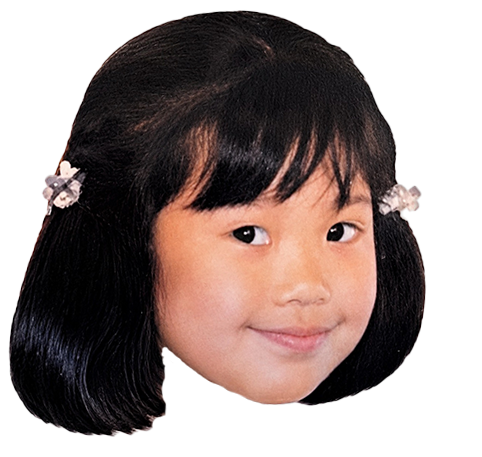
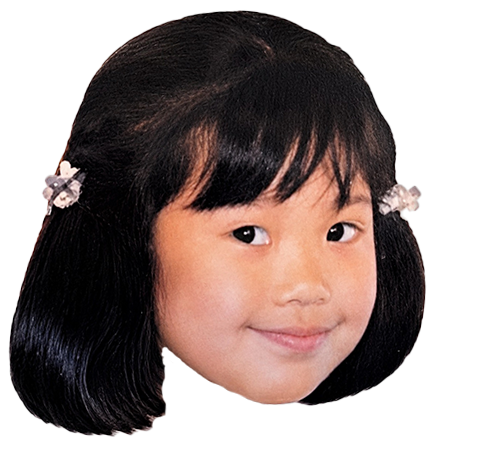
二つ名を名前に添えて表示する
Charactersシートの「二つ名」列（幼少期・新郎など）を読み取り、
名前と並べて表示するようにした。

- 力士カード: 名前の右に、名前より一回り小さく添える
- 団体戦の選択画面: 縦書きの二段目として名前の左に立て、
  下端に揃えて小さく表示する

あわせて衣装の対応表に「まわし」を明示（従来も通常の体が
選ばれていたが、有効な値として分かるようにした）。

diff --git a/js/data_local.js b/js/data_local.js
@@ -1,7 +1,7 @@
 /**
  * data_local.js  ※自動生成ファイル - 直接編集しないこと
  *
- * 生成: 2026-08-31 08:39:57
+ * 生成: 2026-08-31 08:50:08
  * 元:   スプレッドシート 2PACX-1vT4MxPwJQWpSrarh8...
  *
  * 内容を更新するには、スプシを編集してから次を実行:
@@ -9,7 +9,7 @@
  */
 const LOCAL_CSV = {
   "CONFIG": "No.,カテゴリ,関連,ID (Key),概要,計算式 / ロジック,設定値,解説（値が大きくなると）\r\n1,SYSTEM,0-共通,SYSTEM_STAGE_WIDTH,ステージ全幅,ピクセル数 (px),1200,ゲーム画面（土俵を含む全体）の横幅。\r\n2,SYSTEM,0-共通,SYSTEM_CENTER_X,ステージ中心X座標,STAGE_WIDTH / 2 (px),600,画面の中央座標。配置の基準点。\r\n3,SYSTEM,0-共通,SYSTEM_START_OFFSET,初期配置オフセット,CENTER_X ± OFFSET,200,中心から左右にどれだけ離れて開始するか。\r\n4,SYSTEM,0-共通,GAME_RULES_RING_EDGE_RIGHT,土俵右端座標,右端X座標土俵(px),1090,土俵が右に広がる。\r\n5,SYSTEM,0-共通,GAME_RULES_RING_EDGE_LEFT,土俵左端座標,左端のX座標(px),110,土俵が左に広がる。\r\n6,SYSTEM,0-共通,GAME_RULES_EDGE_ZONE_WIDTH,土俵際の判定エリア,端から{設定値}Pxが土俵際,120,土俵際（逆転バフ発動エリア）が広くなる。\r\n7,SYSTEM,0-共通,GAME_RULES_HIT_DIST,接触判定距離,2人の距離(d)が{設定値}Px以下なら「接触」判定。この距離内でアクションすると**「組み（Grapple）」**に移行,100,遠くからでも接触判定が出る。吸い込みが強くなる。\r\n8,SYSTEM,0-共通,GAME_RULES_THROW_RANGE,投げ技射程,距離 < RANGE で掴み投げ発動(px),120,\"掴み投げが遠くから届くようになる。\n接触判定距離との差分→掴まれずに投げを発動できる距離\"\r\n9,SYSTEM,0-共通,DAMAGE_RINGOUT_PENALTY,即死ダメージ,固定ダメージ,999,土俵から足が出た瞬間に与えられるペナルティダメージ（999）。\r\n10,SYSTEM,0-共通,PHYSICS_SCALE_1,小兵サイズ倍率,基準値(130px) * SCALE,0.75,最も小さい体格。当たり判定も小さい。\r\n11,SYSTEM,0-共通,PHYSICS_SCALE_2,中兵サイズ倍率,基準値(130px) * SCALE,0.875,やや小さい体格。\r\n12,SYSTEM,0-共通,PHYSICS_SCALE_3,標準サイズ倍率,基準値(130px) * SCALE,1,基準となる体格。\r\n13,SYSTEM,0-共通,PHYSICS_SCALE_4,大型サイズ倍率,基準値(130px) * SCALE,1.225,やや大きい体格。\r\n14,SYSTEM,0-共通,PHYSICS_SCALE_5,巨漢サイズ倍率,基準値(130px) * SCALE,1.45,最も大きい体格。当たり判定も大きい。\r\n15,ACTION,0-共通,ACTION_SPEED_BASE,基本移動速度,BASE * ハヤサ補正(px/fl),8,全員の移動スピードが速くなる。\r\n16,ACTION,0-共通,ACTION_MOVE_BACK_RATE,後退速度倍率,SPEED * RATE,0.7,後ろに下がる速度が速くなる（逃げやすい）。\r\n17,ACTION,0-共通,ACTION_SPEED_CHARGING_MOD,チャージ中速度,SPEED * MOD(px/fl),0.7,チャージ中（Sキー）でも速く動ける（1.0で減速なし）。\r\n18,ACTION,0-共通,ACTION_CHARGE_BACK_RATE,チャージ後退倍率,SPEED * RATE,0.5,チャージしながら下がる速度が速くなる。\r\n19,ACTION,0-共通,ACTION_REBOUND_VELOCITY,弾かれ初速,衝突時 VELOCITY で吹っ飛ぶ(px/fl),15,かち合い（正面衝突）時\r\n20,ACTION,0-共通,ACTION_COOLDOWN_TIME,張り合い硬直,COOLDOWN 動けない (F),30,ぶつかった後の硬直時間が長くなる。\r\n21,ACTION,0-共通,ACTION_INASHI_DURATION_BASE,いなし受付時間基本値,BASE + ギジュツ補正 (F),1,いなし（パリィ）の受付時間が長くなる。\r\n22,ACTION,0-共通,ACTION_INASHI_TECH_MOD,いなし技術補正,ギジュツ差 * MOD (F),3,\"ギジュツが高いキャラのいなし時間がさらに伸びる。\n「ギジュツ（Tech）」ステータス1ポイントにつき、受付時間が何フレーム伸びるかです。\"\r\n23,ACTION,0-共通,ACTION_STUMBLE_DURATION,いなしの失敗隙,フレーム数 (F),30,いなし失敗時の硬直時間。（※対人戦のP1 vs P2では、今のところ使われていません。対人戦では STAMINA_MISS_PENALTY でスタミナが減る仕様になっています）\r\n24,ACTION,0-共通,ACTION_STUN_TIME_PUSH,スタン(押し),フレーム数 (F),30,ぶちかまし被弾時の気絶時間。\r\n25,ACTION,0-共通,ACTION_STUN_TIME_THROW,スタン(投げ),フレーム数 (F),50,投げ被弾時の気絶時間。\r\n26,ACTION,0-共通,ACTION_SWAP_DIST_NORMAL,いなし移動距離,入れ替え後 ± DIST(px),80,いなし成功時に相手とどのくらい距離を離すか。\r\n27,ACTION,0-共通,STATUS_SP_PUSH_BASE,ぶちかまし距離,BASE + (Power補正),50,ぶちかましで相手を最低でもこの距離は吹っ飛ばす。\r\n28,ACTION,0-共通,ACTION_SWAP_DIST_SUPER,投げ移動距離,投げ後 ± DIST(px),150,掴み投げ成功時に相手を背後にどの程度飛ばすか。\r\n29,ACTION,0-共通,CHARGE_BASE_GAIN,ゲージ増加量,GAIN * ギジュツ補正,1,下キー（チャージ）を押している間、この値が毎フレーム加算されます。\r\n30,ACTION,0-共通,CHARGE_THRESHOLDS_SUPER_PUSH,ぶちかまし閾値,ゲージ >= THRESHOLD で発動,50,ゲージがこの値以上の時に、接触して前進すると「ぶちかまし」が発動します。発動後、この値分だけゲージが消費されます。\r\n31,ACTION,0-共通,CHARGE_THRESHOLDS_SUPER_SWAP,投げ閾値,ゲージ >= THRESHOLD で発動,100,ゲージがこの値以上の時に、接触して前進すると「後ろ投げ」が発動します。発動後、この値分だけゲージが消費されます。\r\n32,ACTION,0-共通,CLASH_POWER_RATE,通常押し威力,チカラ×rate,0.5,通常の張り合いでスタミナが削れる量。\r\n33,ACTION,0-共通,PHYSICS_FRICTION,速度 *= FRICTION,張り合い時の減速,0.75,張り合い時に小さいほどツルツル滑る。\r\n34,ACTION,0-共通,DAMAGE_BASE_THROW,投げ威力,固定ダメージ,5,掴み投げ（必殺）でスタミナが削れるベース値。\r\n35,ACTION,1-チカラ,PHYSICS_PUSH_POWER_BASE,押す力の基本値,移動量 = (Power * 0.5) + PUSH_POWER_BASE,3.5,押し合いで相手を飛ばす物理的な移動量。\r\n36,ACTION,0-共通,DAMAGE_BASE_THRUST,ぶちかまし威力,固定ダメージ,5,ぶちかまし（必殺）でスタミナが削れる量。\r\n37,STAMINA,0-共通,STAMINA_INIT,スタミナ初期値,開始時のタイリョク基準値,100,試合が長引くようになる。\r\n38,ACTION,0-共通,STATUS_GRAPPLE_SPD_RATE,組み速度倍率,全員共通の速度 × STATUS_GRAPPLE_SPD_RATE,0.5,組み状態（寄り）での移動速度が速くなる。\r\n39,STAMINA,0-共通,STAMINA_MAX_DECAY,自然減少速度,毎フレーム MAX - DECAY,0.1,何もしなくてもHPが減る速度が上がる。\r\n40,STAMINA,0-共通,STAMINA_CHARGE_COST,チャージコスト,チャージ時 - COST,0.1,\"立ち合い時と寄り時両方のチャージ時の一時体力消費量\n※立ち合い時はチャージ時の半分\"\r\n41,STAMINA,0-共通,STAMINA_RECOVERY_DELAY,,,60,回復開始までの待機フレーム数（60=1秒）。300なら5秒待ちます。\r\n43,STAMINA,0-共通,STAMINA_SWAP_COST_NORMAL,いなし成功コスト,入れ替え時 - COST,0,いなし成功時の自傷ダメージ\r\n44,STAMINA,0-共通,STAMINA_MISS_PENALTY,空振りペナルティ,いなし失敗時 - PENALTY,10,いなし失敗時の自傷ダメージ\r\n45,STAMINA,0-共通,STAMINA_RECOVER_IDLE,棒立ち回復量,毎フレーム + RECOVER,0.3,何もしない時の回復が早くなる。\r\n46,STAMINA,0-共通,STAMINA_RECOVER_MOVE,移動中回復量,毎フレーム + RECOVER,0.1,移動しながらでもスタミナが回復しやすくなる。\r\n47,STAMINA,0-共通,STAMINA_PUSH_COST,寄るコスト,押し合い時 - COST,0.2,寄りで押すときにかかるコスト\r\n48,STAMINA,0-共通,STAMINA_MOVE_COST,寄られるコスト,移動時 - COST,0.25,寄りで押されてるときにかかるコスト\r\n49,STAMINA,0-共通,STAMINA_SUPER_PUSH_COST,SP押しコスト,ぶちかまし時 - COST,10,ぶちかまし使用時の体力消費が増える。\r\n50,STAMINA,0-共通,STAMINA_SUPER_SWAP_COST,SP投げコスト,掴み投げ時 - COST,15,掴み投げ使用時の体力消費が増える。\r\n51,STATUS,4-タイリョク,STATUS_HP_PER_STAMINA,体力換算レート,100 + (Stamina差 * RATE),10,タイリョクが高いキャラのHP最大値が増える。\r\n52,STAMINA,1-チカラ,STATUS_GRAPPLE_COST_RATE,組みスタミナ,COST * RATE,0.2,組み状態のタイリョク減少値\r\n53,STATUS,3-ハヤサ,STATUS_SPD_MOVE_RATE,俊敏移動補正,SPEED * (1 + Spd差*RATE),0.15,ハヤサが高いキャラの移動速度が速くなる。\r\n54,STATUS,3-ハヤサ,STATUS_SPD_BRAKE_RATE,俊敏減速補正,DECAY - (Spd差 * RATE),0.05,ハヤサが高いキャラがスタンからすぐ動ける。\r\n55,STATUS,2-ギジュツ,STATUS_TECH_CHARGE_RATE,チャージ補正,GAIN * (1 + Tech差*RATE),0.18,ギジュツが高いキャラのチャージ速度が速くなる。\r\n56,STATUS,6-ギャクテン,STATUS_REV_BUFF_RATE,逆転バフ率,Reversal差 * RATE,1,ギャクテンが高いキャラが土俵際で強くなる度合い。\r\n57,STATUS,5-キモチ,STATUS_SPIRIT_BUFF_RATE,根性バフ率,(1-HP率) * Spirit差 * RATE,1,キモチが高いキャラがピンチ時に強くなる度合い。\r\n58,UI,0-共通,UI_DMG_DURATION,ダメージ表示時間,ミリ秒 (ms),150,ダメージ数値が画面に表示され続ける時間。\r\n59,UI,0-共通,UI_GYOJI_INTERVAL_MAX,行司間隔(最大),ミリ秒 (ms),2500,「のこった」の最大間隔。\r\n60,UI,0-共通,UI_GYOJI_INTERVAL_MIN,行司間隔(最小),ミリ秒 (ms),800,「のこった」の最小間隔。\r\n61,STATUS,1-チカラ,STATUS_SP_PUSH_RATE,ぶちかまし係数,吹き飛ばし距離 = 基礎値150 + (パワー × SP_PUSH_RATE),20,\"パワー1につき、吹き飛ばす距離が何ピクセル伸びるか。\n例: パワー10 × レート20 = 基礎値に加えて200ドット余計に飛ばす\"\r\n62,STATUS,1-チカラ,STATUS_SP_SELF_BACK_RATE,ぶちかまし反動,吹っ飛ばし距離 * RATE,0.2,\"ぶちかまし後自分にかかる反動\n例: 相手を300飛ばした × レート0.2 = 自分も反動で60下がる。\"\r\n63,STATUS,1-チカラ,STATUS_PUSH_VS_CHARGE,チャージ相手の「押しの効きにくさ（抵抗値）」,移動距離 = 本来の移動距離 ÷ STATUS_PUSH_VS_CHARGE,1.5,\"1.5 に設定した場合 → 移動距離が 1/1.5（約0.6倍）に減る。\n2.0 に設定した場合 → 移動距離が半減する（かなり重くなる）。\"\r\n64,STATUS,1-チカラ,STATUS_PWR_DMG_RATE,パワーダメ倍率,1.0 + (Power差 * RATE),0.2,チカラ（Power）が強い力士ほど、1押しあたりのダメージが重くなる\r\n65,STATUS,1-チカラ,STATUS_PUSH_DIST_CONVERT,押し距離変換,押し力 * CONVERT,0.5,物理的な「力」を、最終的に「画面上で何ドット動かすか」に変換する仕上げの倍率\r\n66,STATUS,1-チカラ,STATUS_PUSH_BASE_RATE,押し基礎値,Power * RATE,0.8,力士の能力値（チカラ）の差を、物理的な「力」に変換する\r\n67,AI,0-共通,AI_LV1_ACCURACY,Lv1 正確性,確率 0.0〜1.0,0.2,高いほど、こちらの行動に対して完璧なカウンター（例：押しには突き、突きにはいなし）を出してきます。\r\n68,AI,0-共通,AI_LV2_ACCURACY,Lv2 正確性,確率 0.0〜1.0,0.3,高いほど、こちらの行動に対して完璧なカウンター（例：押しには突き、突きにはいなし）を出してきます。\r\n69,AI,0-共通,AI_LV3_ACCURACY,Lv3 正確性,確率 0.0〜1.0,0.4,高いほど、こちらの行動に対して完璧なカウンター（例：押しには突き、突きにはいなし）を出してきます。\r\n70,AI,0-共通,AI_LV2_INASHIRATE,Lv2 いなし頻度,確率係数,0.1,高いほど、ひらりと体を入れ替える「いなし」を多用します。\r\n71,AI,0-共通,AI_LV4_ACCURACY,Lv4 正確性,確率 0.0〜1.0,0.6,高いほど、こちらの行動に対して完璧なカウンター（例：押しには突き、突きにはいなし）を出してきます。\r\n72,AI,0-共通,AI_LV3_INASHIRATE,Lv3 いなし頻度,確率係数,0.2,高いほど、ひらりと体を入れ替える「いなし」を多用します。\r\n73,AI,0-共通,AI_LV5_ACCURACY,Lv5 正確性,確率 0.0〜1.0,0.7,高いほど、こちらの行動に対して完璧なカウンター（例：押しには突き、突きにはいなし）を出してきます。\r\n74,AI,0-共通,AI_LV4_INASHIRATE,Lv4 いなし頻度,確率係数,0.4,高いほど、ひらりと体を入れ替える「いなし」を多用します。\r\n75,AI,0-共通,AI_LV6_ACCURACY,Lv6 正確性,確率 0.0〜1.0,0.85,高いほど、こちらの行動に対して完璧なカウンター（例：押しには突き、突きにはいなし）を出してきます。\r\n76,AI,0-共通,AI_LV5_INASHIRATE,Lv5 いなし頻度,確率係数,0.6,高いほど、ひらりと体を入れ替える「いなし」を多用します。\r\n77,AI,0-共通,AI_LV7_ACCURACY,Lv7 正確性,確率 0.0〜1.0,1,高いほど、こちらの行動に対して完璧なカウンター（例：押しには突き、突きにはいなし）を出してきます。\r\n78,AI,0-共通,AI_LV6_INASHIRATE,Lv6 いなし頻度,確率係数,0.9,高いほど、ひらりと体を入れ替える「いなし」を多用します。\r\n79,AI,0-共通,AI_LV1_INASHIRATE,Lv1 いなし頻度,確率係数,0.05,高いほど、ひらりと体を入れ替える「いなし」を多用します。\r\n80,AI,0-共通,AI_LV7_INASHIRATE,Lv7 いなし頻度,確率係数,1.5,高いほど、ひらりと体を入れ替える「いなし」を多用します。\r\n81,AI,0-共通,AI_LV1_MISTAKE,Lv1 ミス率,確率 0.0〜1.0,0.5,高いほど、棒立ちしたり、変な方向に動いたりします。\r\n82,AI,0-共通,AI_LV2_MISTAKE,Lv2 ミス率,確率 0.0〜1.0,0.4,高いほど、棒立ちしたり、変な方向に動いたりします。\r\n83,AI,0-共通,AI_LV3_MISTAKE,Lv3 ミス率,確率 0.0〜1.0,0.3,高いほど、棒立ちしたり、変な方向に動いたりします。\r\n84,AI,0-共通,AI_LV4_MISTAKE,Lv4 ミス率,確率 0.0〜1.0,0.2,高いほど、棒立ちしたり、変な方向に動いたりします。\r\n85,AI,0-共通,AI_LV5_MISTAKE,Lv5 ミス率,確率 0.0〜1.0,0.1,高いほど、棒立ちしたり、変な方向に動いたりします。\r\n86,AI,0-共通,AI_LV6_MISTAKE,Lv6 ミス率,確率 0.0〜1.0,0.05,高いほど、棒立ちしたり、変な方向に動いたりします。\r\n87,AI,0-共通,AI_LV7_MISTAKE,Lv7 ミス率,確率 0.0〜1.0,0,高いほど、棒立ちしたり、変な方向に動いたりします。\r\n88,AI,0-共通,AI_LV1_REACTION,Lv1 反応速度,フレーム数,50,「行動開始までのウェイト時間」 (フレーム数)\r\n89,AI,0-共通,AI_LV2_REACTION,Lv2 反応速度,フレーム数 (小さいほど速い),40,「行動開始までのウェイト時間」 (フレーム数)\r\n90,AI,0-共通,AI_LV3_REACTION,Lv3 反応速度,フレーム数 (小さいほど速い),30,「行動開始までのウェイト時間」 (フレーム数)\r\n91,AI,0-共通,AI_LV4_REACTION,Lv4 反応速度,フレーム数 (小さいほど速い),20,「行動開始までのウェイト時間」 (フレーム数)\r\n92,AI,0-共通,AI_LV5_REACTION,Lv5 反応速度,フレーム数,15,「行動開始までのウェイト時間」 (フレーム数)\r\n93,AI,0-共通,AI_LV6_REACTION,Lv6 反応速度,フレーム数,8,「行動開始までのウェイト時間」 (フレーム数)\r\n94,AI,0-共通,AI_LV7_REACTION,Lv7 反応速度,フレーム数,3,「行動開始までのウェイト時間」 (フレーム数)\r\n95,DEBUG,0-共通,DEBUG,デバッグモード,1=ON,0,\"0ロジック: 1 にすると、当たり判定のボックスや、現在のステータス数値などが画面上に可視化されます（※実装コードが ui.js や game.js の描画部分に含まれている場合のみ有効）。\n現状: コード内には明示的な実装が見当たりませんが、将来的に「当たり判定がおかしい？」となった時に使うための予約変数として置いておくのが良いです。\"\r\n96,ACTION,1-チカラ,ACTION_THROW_DIST_RATE,,,10,[新規] 投げ距離へのチカラ倍率\r\n97,ACTION,1-チカラ,DAMAGE_INASHI_RATE,,,2,[新規] いなし相手へのダメージ倍率（通常1。0.5にすれば半減）\r\n98,ACTION,1-チカラ,DAMAGE_THRUST_PWR_RATE,,,2,ダメージへのチカラ倍率（1ならそのまま加算）\r\n99,ACTION,1-チカラ,DAMAGE_THROW_PWR_RATE,,,3,ダメージへのチカラ倍率（2ならチカラ×2を加算）",
-  "CHARS": "ID,最終更新日,名前,画像ファイル,音声ファイル,体格,チカラ,ギジュツ,ハヤサ,タイリョク,キモチ,ギャクテン,どすこいパワー,タイプ,思考,Slot,カテゴリ,衣装,身長,身長スコア,体重,体重スコア,コスト\r\n0,2026/08/31,日野錦(幼少期),hino1.png,hino.mp3,1,3,2,7,5,5,5,40,スピード,変則,0,ドリーム,まわし,,1,,1,1\r\n1,2026/08/31,日野錦(高校生),hino2.png,hino.mp3,2,6,4,9,7,7,5,62,スピード,素直,1,ドリーム,まわし,,2,,2,3\r\n2,2026/08/31,日野錦(大学生),hino3.png,hino.mp3,3,7,4,7,5,8,7,61,パワー,力押し,2,ドリーム,まわし,,3,,3,3\r\n3,2026/08/31,日野錦(新郎),hino4.png,hino.mp3,3,6,4,6,4,10,10,58,バランス,変則,3,ドリーム,まわし,,3,,3,2\r\n4,2026/08/31,北居の星(幼少期),kitai1.png,kitai.mp3,1,1,1,4,3,5,3,22,スピード,素直,4,ドリーム,ドレス,,1,,1,0\r\n5,2026/08/31,北居の星(高校生),kitai2.png,kitai.mp3,2,10,4,8,10,10,6,80,パワー,力押し,5,ドリーム,ドレス,,2,,2,6\r\n6,2026/08/31,北居の星(留学),kitai3.png,kitai.mp3,3,8,2,8,8,10,5,65,パワー,素直,6,ドリーム,ドレス,,3,,3,4\r\n7,2026/08/31,北居の星(新婦),kitai4.png,kitai.mp3,4,8,3,7,8,10,5,66,パワー,力押し,7,ドリーム,ドレス,,4,,4,4\r\n8,2025/06/01,大の里,onosato.png,onosato.mp3,5,9,4,6,7,7,7,68,パワー,力押し,8,現役,まわし,192,5,184,5,4\r\n9,2025/06/01,安青錦,aonishiki.png,aonishiki.mp3,3,6,8,7,7,6,7,68,テクニック,素直,9,現役,まわし,182,3,141,2,4\r\n10,2025/06/01,高安,takayasu.png,takayasu.mp3,4,7,6,7,4,1,6,58,パワー,力押し,10,現役,まわし,188,4,173,3,2\r\n11,,熱海富士,atamifuji.png,,5,7,4,5,7,5,5,57,パワー,力押し,11,現役,まわし,187,3,197,5,2\r\n12,2025/06/01,字良,ura.png,ura.mp3,2,3,9,5,3,6,9,54,テクニック,技狙い,12,現役,まわし,176,2,138,2,2\r\n13,,炎鵬,,,1,1,9,7,1,8,7,48,テクニック,,13,現役,まわし,167,0,107,1,1\r\n14,2025/06/01,白熊,shirokuma.png,shirokuma.mp3,3,3,3,3,3,3,3,30,バランス,素直,14,現役,まわし,185,3,155,3,0\r\n15,2025/06/01,白鵬,hakuho.png,hakuho.mp3,5,9,9,9,9,9,9,90,バランス,変則,15,レジェンド,まわし,192,5,155,3,6\r\n16,2025/06/01,稀勢の里,kisenosato.png,kisenosato.mp3,5,9,8,6,7,3,10,76,パワー,変則,16,レジェンド,まわし,188,4,177,4,5\r\n17,,貴乃花,,,,,,,,,,,,変則,17,レジェンド,まわし,,0,,1,0\r\n18,2026/01/01,義野口（友人）,noguchi.png,noguchi.mp3,4,10,6,1,1,1,2,50,パワー,力押し,18,ドリーム,まわし,,5,184,5,2\r\n19,2026/01/01,大高の里（友人）,otaka.png,otaka.mp3,3,2,8,4,8,8,1,50,テクニック,技狙い,19,ドリーム,まわし,,3,140,2,2",
+  "CHARS": "ID,最終更新日,名前,二つ名,画像ファイル,音声ファイル,体格,チカラ,ギジュツ,ハヤサ,タイリョク,キモチ,ギャクテン,どすこいパワー,タイプ,思考,Slot,カテゴリ,衣装,身長,身長スコア,体重,体重スコア,コスト\r\n0,2026/08/31,日野錦,幼少期,hino1.png,hino.mp3,1,3,2,7,5,5,5,40,スピード,変則,0,ドリーム,まわし,,1,,1,1\r\n1,2026/08/31,日野錦,高校生,hino2.png,hino.mp3,2,6,4,9,7,7,5,62,スピード,素直,1,ドリーム,まわし,,2,,2,3\r\n2,2026/08/31,日野錦,大学生,hino3.png,hino.mp3,3,7,4,7,5,8,7,61,パワー,力押し,2,ドリーム,まわし,,3,,3,3\r\n3,2026/08/31,日野錦,新郎,hino4.png,hino.mp3,3,6,4,6,4,10,10,58,バランス,変則,3,ドリーム,まわし,,3,,3,2\r\n4,2026/08/31,北居の星,幼少期,kitai1.png,kitai.mp3,1,1,1,4,3,5,3,22,スピード,素直,4,ドリーム,ドレス,,1,,1,0\r\n5,2026/08/31,北居の星,高校生,kitai2.png,kitai.mp3,2,10,4,8,10,10,6,80,パワー,力押し,5,ドリーム,ドレス,,2,,2,6\r\n6,2026/08/31,北居の星,留学,kitai3.png,kitai.mp3,3,8,2,8,8,10,5,65,パワー,素直,6,ドリーム,ドレス,,3,,3,4\r\n7,2026/08/31,北居の星,新郎,kitai4.png,kitai.mp3,4,8,3,7,8,10,5,66,パワー,力押し,7,ドリーム,ドレス,,4,,4,4\r\n8,2025/06/01,大の里,,onosato.png,onosato.mp3,5,9,4,6,7,7,7,68,パワー,力押し,8,現役,まわし,192,5,184,5,4\r\n9,2025/06/01,安青錦,,aonishiki.png,aonishiki.mp3,3,6,8,7,7,6,7,68,テクニック,素直,9,現役,まわし,182,3,141,2,4\r\n10,2025/06/01,高安,,takayasu.png,takayasu.mp3,4,7,6,7,4,1,6,58,パワー,力押し,10,現役,まわし,188,4,173,3,2\r\n11,,熱海富士,,atamifuji.png,,5,7,4,5,7,5,5,57,パワー,力押し,11,現役,まわし,187,3,197,5,2\r\n12,2025/06/01,字良,,ura.png,ura.mp3,2,3,9,5,3,6,9,54,テクニック,技狙い,12,現役,まわし,176,2,138,2,2\r\n13,,炎鵬,,,,1,1,9,7,1,8,7,48,テクニック,,13,現役,まわし,167,0,107,1,1\r\n14,2025/06/01,白熊,,shirokuma.png,shirokuma.mp3,3,3,3,3,3,3,3,30,バランス,素直,14,現役,まわし,185,3,155,3,0\r\n15,2025/06/01,白鵬,,hakuho.png,hakuho.mp3,5,9,9,9,9,9,9,90,バランス,変則,15,レジェンド,まわし,192,5,155,3,6\r\n16,2025/06/01,稀勢の里,,kisenosato.png,kisenosato.mp3,5,9,8,6,7,3,10,76,パワー,変則,16,レジェンド,まわし,188,4,177,4,5\r\n17,,貴乃花,,,,,,,,,,,,,変則,17,レジェンド,まわし,,0,,1,0\r\n18,2026/01/01,義野口（友人）,,noguchi.png,noguchi.mp3,4,10,6,1,1,1,2,50,パワー,力押し,18,ドリーム,まわし,,5,184,5,2\r\n19,2026/01/01,大高の里（友人）,,otaka.png,otaka.mp3,3,2,8,4,8,8,1,50,テクニック,技狙い,19,ドリーム,まわし,,3,140,2,2",
   "BGM": "ID,ファイル名,曲名,アルバムID\r\n0,bgm01.mp3,5年前の未来,hitorizumou\r\n1,bgm02.mp3,I’m not just your star,hitorizumou\r\n2,bgm03.mp3,TU〜YU,sotsugyousiki\r\n3,bgm04.mp3,くっくっくうちゃん,hitorizumou\r\n4,bgm05.mp3,どうしようもないクリぼっちな僕,sotsugyousiki\r\n5,bgm06.mp3,ともへ,hitorizumou\r\n6,bgm07.mp3,君と僕と,sengen\r\n7,bgm08.mp3,宣言,sengen\r\n8,bgm09.mp3,前髪の行方,sengen\r\n9,bgm10.mp3,恥ずかしがって何もしない事が1番恥ずかしい,hitorizumou\r\n10,opening.mp3,にじうなな(Theme Song 1),Original\r\n11,charaselect.mp3,土俵に届け！キモチ(Theme Song 2),Original",
   "ALBUMS": "ID,アルバム名,ジャケット画像ファイル名,カテゴリ,カテゴリID\r\nhitorizumou,ひとりずもう,hitorizumou.jpg,ヒノれでぃお,1\r\nhinoiri,日の入,hinoiri.jpg,ヒノれでぃお,1\r\nhinode,日の出,hinode.jpg,ヒノれでぃお,1\r\nnokorifuku,残り福,nokorifuku.jpg,ヒノれでぃお,1\r\nsotsugyousiki,卒業式,sotsugyousiki.jpg,ヒノれでぃお,1\r\nsengen,宣言,sengen.jpg,ヒノれでぃお,1\r\nOriginal,Original,original.png,Original,2"
 };

diff --git a/css/team.css b/css/team.css
@@ -155,6 +155,22 @@
     text-shadow: 2px 2px 0px #000;
     z-index: 200;
     letter-spacing: 4px;
+
+    /* 縦書きでは段が右→左へ進むため、column指定で名前の左に二段目が立つ。
+       高さを持たせることで、二段目を下端へ寄せられるようにする。 */
+    display: flex;
+    flex-direction: column;
+    align-items: flex-start;   /* 名前は従来どおり上から始める */
+    height: calc(100% - 20px);
+    pointer-events: none;
+}
+
+/* 二段目の二つ名（幼少期・新郎など）。名前より小さく、下端に揃える */
+.vertical-name .vertical-nickname {
+    align-self: flex-end;
+    font-size: 0.6em;
+    letter-spacing: 2px;
+    margin-right: 2px;         /* 縦書きでは右方向が名前側 */
 }
 /* =========================================
    団体戦のタイトル周りのレイアウト調整

diff --git a/js/data.js b/js/data.js
@@ -145,6 +145,7 @@ async function loadExternalData() {
                         return {
                             id: parseInt(row['ID'] || i),
                             name: row['名前'] || "Unknown",
+                            nickname: (row['二つ名'] || row['通り名'] || "").trim(), // 名前に添える二つ名
                             img: row['画像ファイル'] || "",
                             desc: (row['タイプ'] || "バランス").replace("ギジュツ", "テクニック") + "タイプ",
                             playType: (row['タイプ'] || "バランス").replace("ギジュツ", "テクニック"),

diff --git a/js/ui.js b/js/ui.js
@@ -1100,7 +1100,7 @@ class UIManager {
             html += `
             <div class="preview-info">
                 ${radarHtml} 
-                <div class="preview-name">${d.name}</div>
+                <div class="preview-name">${d.name}${d.nickname ? `<span class="preview-nickname">${d.nickname}</span>` : ''}</div>
                 <div class="preview-badge-type">${typeName}</div>
                 <div class="preview-badge-ai">${aiName}</div>
                 <div class="preview-stat-grid">

diff --git a/css/ui.css b/css/ui.css
@@ -395,6 +395,14 @@
     margin: 0; /* マージンでの位置調整は廃止 */
 }
 
+/* 名前の右に添える二つ名（幼少期・新郎など）。名前より一回り小さく出す */
+.preview-nickname {
+    font-size: 0.62em;
+    margin-left: 0.4em;
+    vertical-align: 0.12em;   /* 小さい文字が下に沈んで見えるのを補正 */
+    letter-spacing: 0.02em;
+}
+
 /* --- タイプ・思考バッジ（個別自由配置） --- */
 
 /* 共通スタイル（見た目） */

diff --git a/js/team_ui.js b/js/team_ui.js
@@ -420,7 +420,7 @@ class TeamUIManager {
                     </div>
                 </div>
             </div>
-            <div class="vertical-name">${charData.name}</div>
+            <div class="vertical-name"><span class="vertical-main">${charData.name}</span>${charData.nickname ? `<span class="vertical-nickname">${charData.nickname}</span>` : ''}</div>
         `;
     }
 

diff --git a/js/config.js b/js/config.js
@@ -243,6 +243,7 @@ function speedAnimDuration(speed) {
 //   例) ' 紋付': 'montsuki' → rikiship1montsuki.png を用意する
 // ============================================================
 const COSTUME_BODY_SUFFIX = {
+    'まわし': '',        // 通常のまわし姿（rikiship1.png / rikiship2.png）
     'ドレス': 'doresu'
 };
 
